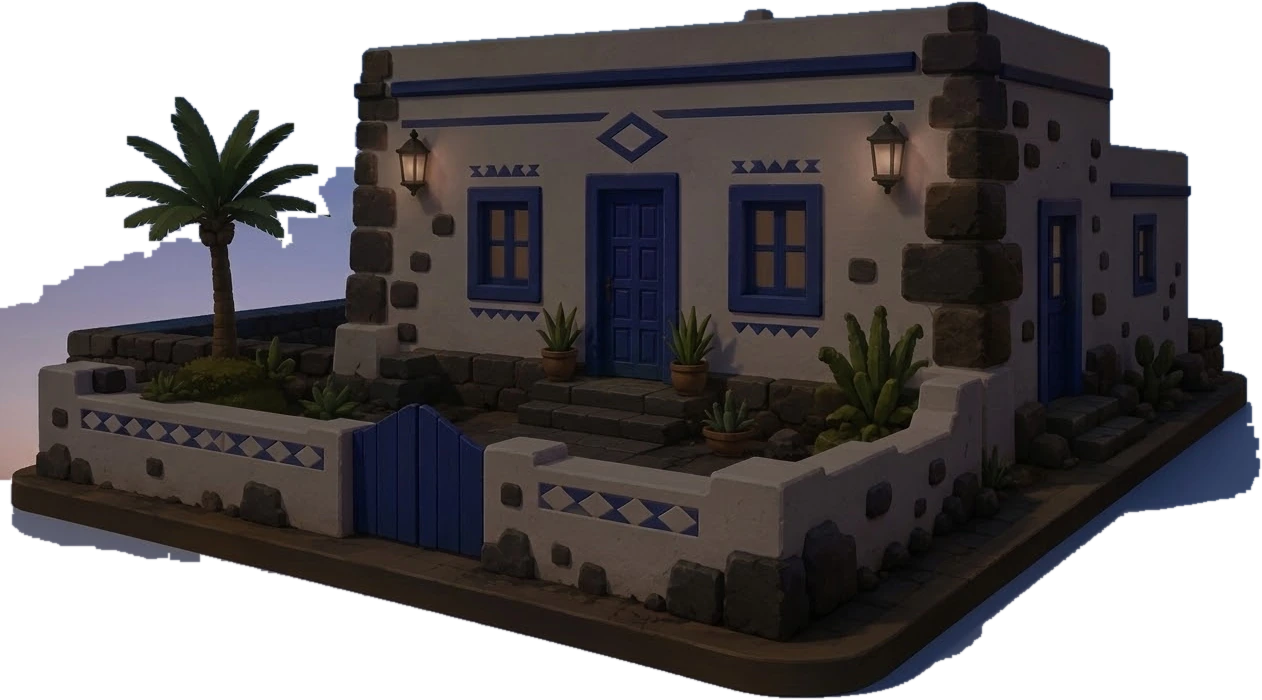
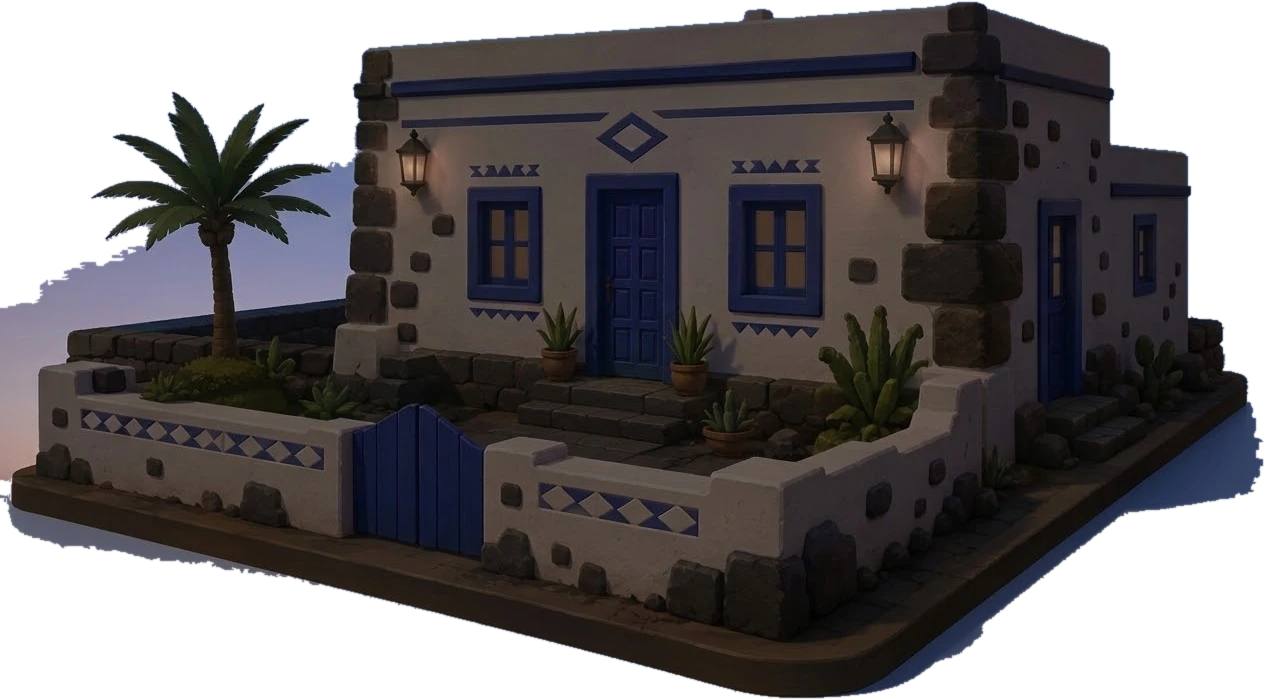
Put back the texture I removed, and stop the cutout biting the walls
Two regressions of mine, both visible to Alejandro before they were to me.

The site had no texture at all: mounting the landscape had unmounted the
sea layer and the portada's own sea, and switching the landscape off left
nothing behind them. Both are back. Replacing something means building
the new one and then removing the old, never the other way round.

The house was cut with a bite out of the garden wall. A plain
morphological opening cannot tell a shadow tongue from a low wall — both
are thin — so it took half the wall with it. Opening by reconstruction
uses the erosion only to decide what survives, then regrows those seeds
inside the original silhouette: anything attached to the body comes back
whole, and a loose tongue has no seed to grow from.

diff --git a/design/casa-nueva/recortar.py b/design/casa-nueva/recortar.py
@@ -74,6 +74,45 @@ def modelo_de_fondo(rgb: np.ndarray) -> np.ndarray:
     return fondo
 
 
+def _dilatar(m: np.ndarray) -> np.ndarray:
+    """Crece un píxel en las cuatro direcciones."""
+    d = m.copy()
+    d[1:, :] |= m[:-1, :]
+    d[:-1, :] |= m[1:, :]
+    d[:, 1:] |= m[:, :-1]
+    d[:, :-1] |= m[:, 1:]
+    return d
+
+
+def quitar_lenguas(mask: np.ndarray, radio: int = 5, tope: int = 900) -> np.ndarray:
+    """
+    Quita las lenguas finas de sombra SIN comerse lo fino de la casa.
+
+    ⚠ AQUÍ ESTUVO EL RECORTE MORDIDO QUE VIO ALEJANDRO. Antes esto era una
+    apertura a secas —encoger y volver a crecer—, y una apertura no distingue
+    entre una lengua de sombra y el murete del jardín: los dos son finos, así
+    que se llevaba por delante media tapia y dejaba el borde izquierdo
+    dentellado.
+
+    Lo correcto es una apertura POR RECONSTRUCCIÓN, que es justo la
+    herramienta para esto. El encogido no decide la forma final, solo decide
+    QUIÉN SOBREVIVE: lo que queda son semillas. Después esas semillas se dejan
+    crecer otra vez, pero solo dentro de la silueta original, hasta que no
+    puedan más. Lo que está pegado al cuerpo —el murete, la palmera, los
+    escalones— se recupera entero, porque le llega el crecimiento desde la
+    semilla. Lo que era una lengua suelta no tiene semilla y no vuelve.
+    """
+    semilla = mask.copy()
+    for _ in range(radio):  # encoger = dilatar el hueco
+        semilla = ~_dilatar(~semilla) & mask
+    for _ in range(tope):
+        crecida = _dilatar(semilla) & mask
+        if np.array_equal(crecida, semilla):
+            break
+        semilla = crecida
+    return semilla
+
+
 def mancha_mayor(mask: np.ndarray) -> np.ndarray:
     """Se queda con la región conectada más grande. Sin scipy: barrido propio."""
     alto, ancho = mask.shape
@@ -151,12 +190,8 @@ def recortar(entrada: Path, salida: Path, umbral: float = 26.0, abrir: bool = Tr
     solido = alfa > 0.55
     # Apertura: se encoge y se vuelve a crecer. Las lenguas de sombra pegadas al
     # borde son finas y no sobreviven al encogido; el cuerpo de la casa sí.
-    # ⚠ Solo en las de color. En las de arcilla la máscara ya es justa (gris
-    # sobre gris) y el encogido se come la casa: quedaba agujereada entera.
     if abrir:
-        lienzo = Image.fromarray((solido * 255).astype(np.uint8), "L")
-        lienzo = lienzo.filter(ImageFilter.MinFilter(9)).filter(ImageFilter.MaxFilter(9))
-        solido = np.asarray(lienzo) > 127
+        solido = quitar_lenguas(solido)
     solido = mancha_mayor(solido)
     solido = rellenar_huecos(solido)
     """
